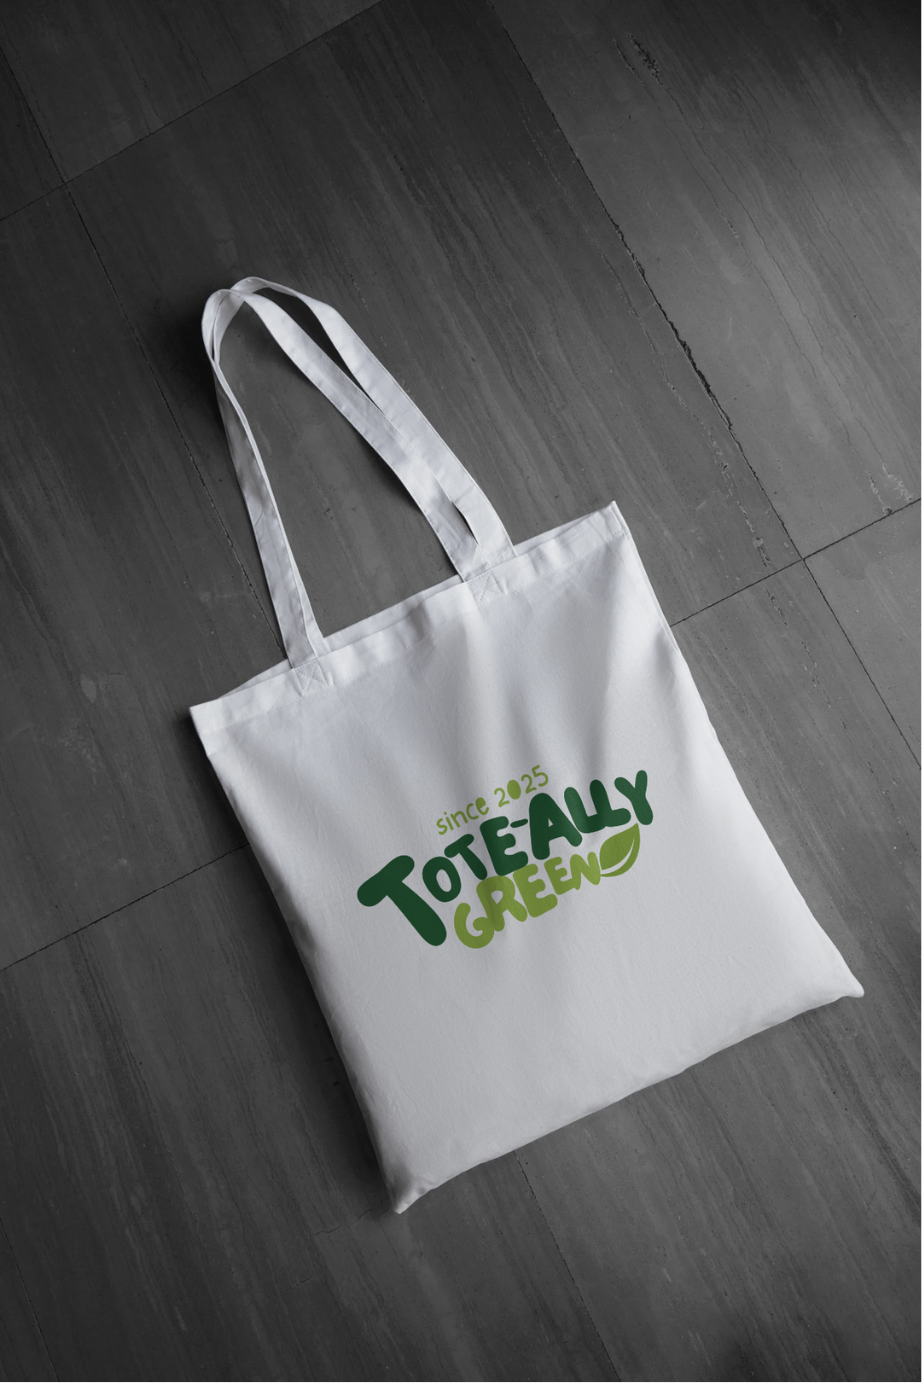
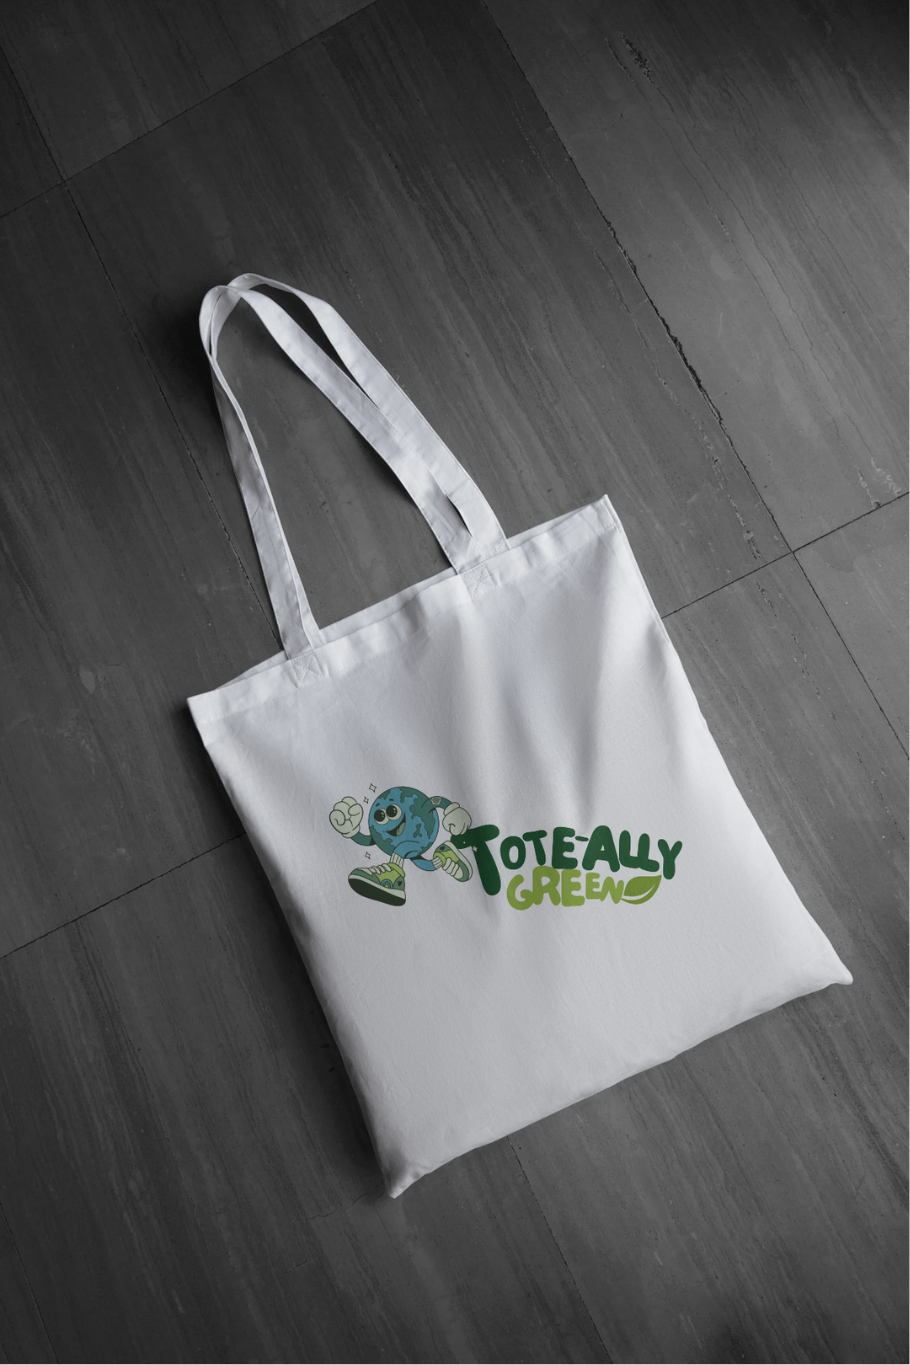
add fix final

Changed region(s): [[0.3692, 0.5538, 0.7692, 0.7077], [0.9846, 0.9846, 1.0, 1.0]]

diff --git a/components/footer.tsx b/components/footer.tsx
@@ -1,62 +1,105 @@
-import { Phone, Facebook, Instagram, Globe } from "lucide-react"
+import { Phone, Facebook, Instagram, Globe, Mail } from "lucide-react"
 import Image from "next/image"
 
 export function Footer() {
   return (
-    <footer id="contact" className="bg-green-600 text-white py-12">
-      <div className="container mx-auto px-4">
-        <div className="grid grid-cols-1 md:grid-cols-2 gap-8">
-          <div>
-            <div className="flex items-center space-x-3 mb-6">
+    <footer id="contact" className="bg-green-700/20 py-12">
+      {/* bỏ container để full width */}
+      <div className="w-full">
+        {/* Card full chiều ngang */}
+        <div className="w-full rounded-none shadow-lg overflow-hidden">
+          <div className="grid grid-cols-1 md:grid-cols-5">
+            {/* Cột trái: nền xanh đậm + logo */}
+            <div className="bg-[#17542a] md:col-span-2 flex items-center justify-center py-10 px-6">
               <Image
                 src="/images/tote-logo.png"
                 alt="Tote-Ally Green Logo"
-                width={120}
-                height={80}
-                className="object-contain"
+                width={220}
+                height={120}
+                className="object-contain drop-shadow "
+                priority
               />
-              <span className="text-3xl font-bold text-white">Tote-Ally Green</span>
             </div>
-          </div>
 
-          <div>
-            <h3 className="text-xl font-bold mb-4">Vui lòng liên hệ với chúng tôi qua:</h3>
-            <div className="space-y-3">
-              <div className="flex items-center space-x-3 hover:text-green-200 transition-colors">
-                <Phone className="w-5 h-5" />
-                <span>Hotline: 0354667104</span>
+            {/* Cột phải: nền xanh tươi */}
+            <div className="bg-[#70b227] md:col-span-3 text-white px-6 sm:px-8 py-8 relative">
+              <h3 className="text-xl sm:text-2xl font-extrabold mb-4">
+                Vui lòng liên hệ với chúng tôi qua:
+              </h3>
+
+              <div className="space-y-3">
+                <Line icon={<Phone className="w-5 h-5" />} text="Hotline: 0354667104" />
+                <Line
+                  icon={<Facebook className="w-5 h-5" />}
+                  text="Fanpage: Tote-Ally Green"
+                  href="https://www.facebook.com/profile.php?id=61581129946899"
+                />
+                <Line
+                  icon={<Mail className="w-5 h-5" />}
+                  text="Email: toteallygreen.official@gmail.com"
+                  href="mailto:toteallygreen.official@gmail.com"
+                />
+                <Line
+                  icon={<Instagram className="w-5 h-5" />}
+                  text="Instagram: tote.ally_green"
+                  href="https://www.instagram.com/tote.ally_green"
+                />
+                <Line
+                  icon={<Globe className="w-5 h-5" />}
+                  text="Website: toteallygreen.vercel.app"
+                  href="https://toteallygreen.vercel.app/"
+                />
               </div>
-              <div className="flex items-center space-x-3 hover:text-green-200 transition-colors">
-                <Facebook className="w-5 h-5" />
-                <a href="https://www.facebook.com/profile.php?id=61581129946899&mibextid=wwXIfr&rdid=kw21Z1Ll88JjJtSO&share_url=https%3A%2F%2Fwww.facebook.com%2Fshare%2F179QRyxrTz%2F%3Fmibextid%3DwwXIfr#"><span>Fanpage: Tote-Ally Green </span></a>
-              </div>
-              <div className="flex items-center space-x-3 hover:text-green-200 transition-colors">
-                <Globe className="w-5 h-5" />
-                <span>Email: toteallygreen.official@gmail.com</span>
-              </div>
-              <div className="flex items-center space-x-3 hover:text-green-200 transition-colors">
-                <Instagram className="w-5 h-5" />
-                <a href="https://www.instagram.com/tote.ally_green?igsh=MXR2cWtmYnluNWY4MA%3D%3D&utm_source=qr"><span>Instagram: tote.ally_green</span></a>
-              </div>
-              <div className="flex items-center space-x-3 hover:text-green-200 transition-colors">
-                <Globe className="w-5 h-5" />
-                <a href="https://toteallygreen.vercel.app/"><span>Website: toteallygreen.vercel.app</span></a>
-              </div>
+
+              <p className="mt-8 text-center text-white/90 font-semibold">
+                Since 2025
+              </p>
             </div>
           </div>
         </div>
 
-        <div className="border-t border-green-500 mt-8 pt-2 text-center">
-          {/* <Image
-            src="/images/tote-logo.png"
-            alt="Tote-Ally Green"
-            width={200}
-            height={120}
-            className="mx-auto object-contain opacity-80"
-          /> */}
-          <p className="text-green-200 mt-2">© 2025 Tote-Ally Green. All rights reserved.</p>
+        {/* dòng bản quyền */}
+        <div className="text-center mt-6">
+          <p className="text-sm text-green-900/70">
+            © 2025 Tote-Ally Green. All rights reserved.
+          </p>
         </div>
       </div>
     </footer>
+  )
+}
+
+/** Item hàng ngang: icon + text/link */
+function Line({
+  icon,
+  text,
+  href,
+}: {
+  icon: React.ReactNode
+  text: string
+  href?: string
+}) {
+  const Inner = (
+    <span className="inline-flex items-center gap-3 hover:opacity-90 transition-opacity">
+      {icon}
+      <span className="font-medium">{text}</span>
+    </span>
+  )
+
+  return (
+    <div className="flex items-center">
+      {href ? (
+        <a
+          href={href}
+          target={href.startsWith("http") ? "_blank" : undefined}
+          rel={href.startsWith("http") ? "noopener noreferrer" : undefined}
+          className="underline-offset-4 hover:underline"
+        >
+          {Inner}
+        </a>
+      ) : (
+        Inner
+      )}
+    </div>
   )
 }

diff --git a/components/about-section.tsx b/components/about-section.tsx
@@ -16,10 +16,10 @@ export function AboutSection() {
           {/* Content Overlay */}
           <div className="relative z-10 flex items-center justify-center h-full p-8 md:p-16">
             <div className="bg-white/95 backdrop-blur-sm p-8 md:p-12 rounded-2xl shadow-2xl max-w-2xl mx-auto text-center">
-              <div className="flex items-center justify-center mb-6">
-                <span className="text-3xl mr-3">🌿</span>
-                <h2 className="text-2xl md:text-3xl font-bold text-green-600">
-                  "Tote-Ally Green – Mang xanh theo bạn"
+              <div className="flex items-center justify-center mb-6 space-x-3">
+                <span className="text-3xl">🌿</span>
+                <h2 className="text-2xl md:text-2xl font-bold text-green-600">
+                  Tote-Ally Green – Mang xanh theo bạn
                 </h2>
               </div>
               <p className="text-gray-700 mb-6 text-lg leading-relaxed">

diff --git a/components/product-section.tsx b/components/product-section.tsx
@@ -34,7 +34,7 @@ const products = [
     id: 5,
     name: "Tote-Ally Green Chibi",
     price: "35.000đ",
-    image: "/images/tote-original.png",
+    image: "/images/tote-chibi.png",
   },
 ]
 
